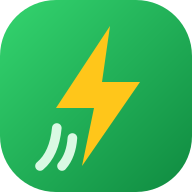
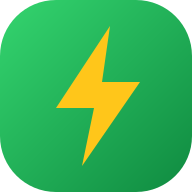
Logotipas – tik žaibas, be brūkšnelių apačioje
Claude-Session: https://claude.ai/code/session_01JpKHEhKa1Siwp8yHBojehE

Changed region(s): [[0.1562, 0.625, 0.4062, 0.9062]]

diff --git a/src/components/logo.tsx b/src/components/logo.tsx
@@ -1,4 +1,4 @@
-/** Kviki ženklas: žaibas – greitai, žolės stiebai – kiemas. */
+/** Kviki ženklas: geltonas žaibas žaliame fone – greita pagalba. */
 export function LogoMark({ className = "size-9" }: { className?: string }) {
   return (
     <svg viewBox="0 0 48 48" className={className} aria-hidden>
@@ -10,13 +10,6 @@ export function LogoMark({ className = "size-9" }: { className?: string }) {
       </defs>
       <rect width="48" height="48" rx="14" fill="url(#kviki-g)" />
       <path d="M27.5 6.5 14 27h9.5l-3 14.5L35 20.5h-9.5z" fill="#ffc61a" />
-      <path
-        d="M10 41.5c2.4-2 3.8-5.2 4.2-9.5M15.5 41.5c1.6-1.8 2.4-4.2 2.6-7"
-        stroke="#d9f9e3"
-        strokeWidth="2.4"
-        strokeLinecap="round"
-        fill="none"
-      />
     </svg>
   );
 }
